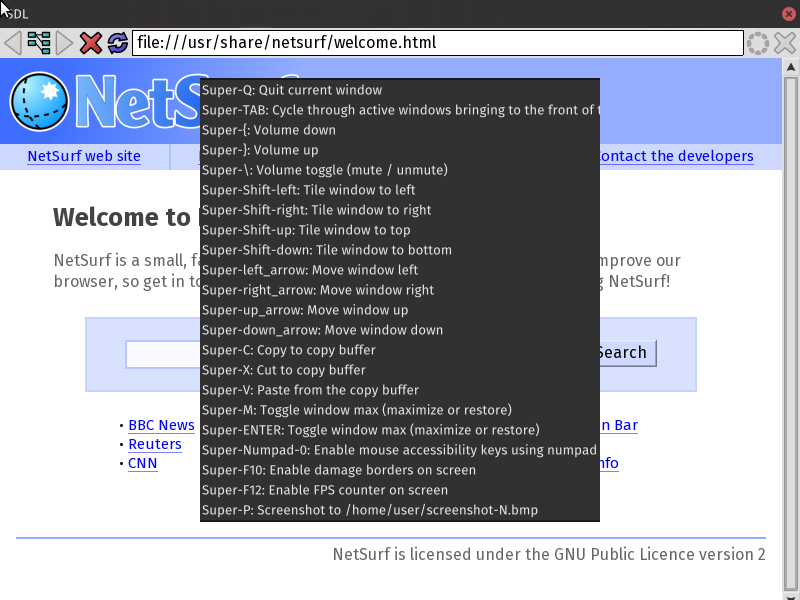
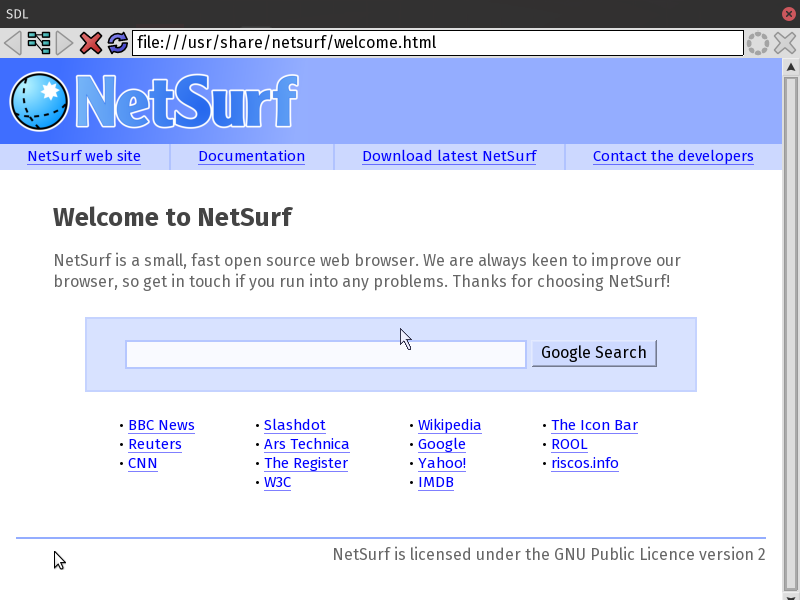
feat(netsurf): local about:welcome homepage + verify click-to-launch (U-105)
Verified the real desktop path: clicking the Netsurf icon on the launcher bar
opens the browser (not just a shell launch) — no crash, window renders. But the
Redox netsurf config overrode netsurf's own about:welcome default with
https://www.redox-os.org/, and Redox networking (netstack/DNS/TLS + the
curl/openssl fetch path) is not functional on the aarch64/QEMU loop yet, so a
click-launch landed on a blank white page.

Fix: a sed in the recipe restores the local about:welcome default (netsurf's
Makefile.config override -> about:welcome), so clicking Netsurf renders the
welcome page immediately.

Verified (boot + bar click-launch + screendump): the icon opens netsurf to the
local welcome page in full — nav links, headings, a search box, the link grid
(assets/screenshots/eos-netsurf-welcome.png, now a clean shot, no overlay).
Web browsing over the network is tracked separately as R-D10.

diff --git a/ROADMAP.md b/ROADMAP.md
@@ -245,6 +245,7 @@ Recommended order, realistic per-item scope and QEMU verification plans live in
 - ⏳ `R-D07` **Volume mixer UI; verify cosmic-edit boot** — Add an audio-mixer/volume UI and explicitly boot-verify cosmic-edit (only cosmic-files/term were verified after the R-402b loader fix). `[P2·M·Mac/QEMU]` · needs `R-D01`
 - ⏳ `R-D08` **Verify launcher .desktop membership** — The greeter→installer path is untested: confirm installer-gui, cosmic-edit and CLI tools actually appear via freedesktop .desktop entries present in the image (not in the exported source tree). `[P1·S·Mac/QEMU]`
 - ⏳ `R-D09` **netsurf: resizable window** — netsurf's window is fixed-size (R-D06 dropped `SDL_RESIZABLE` to dodge a use-after-munmap of the window buffer). Proper resize needs libnsfb's SDL surface to re-fetch `nsfb->ptr` after orbclient remaps on `EVENT_RESIZE` (and post an `SDL_VIDEORESIZE`); the right home is the SDL orbital driver / libnsfb, not the recipe. See `docs/design-netsurf-pie.md`. `[P3·M·Mac/QEMU]`
+- ⏳ `R-D10` **netsurf: web browsing over the network** — netsurf launches and renders local pages (R-D06 ✅), and click-to-launch from the bar is verified (U-105), but loading a real URL (`https://www.redox-os.org/`) shows a blank page — Redox networking (netstack/DNS/TLS, and netsurf's curl/openssl fetch path) is not functional on the aarch64/QEMU loop yet. Default homepage is `about:welcome` (local) until this works. Scope: bring up the net stack under QEMU user-net, confirm DNS + TLS, then a fetch renders. `[P2·L·Mac/QEMU]`
 
 
 ### `R-6xx` — Installer → daily-driver + OOBE / first-boot

diff --git a/CHANGELOG.md b/CHANGELOG.md
@@ -7,6 +7,17 @@ History before `U-071` predates this file and lives in the git log (`git log`).
 ## [Unreleased]
 
 ### Added & Changed
+- `[U-105]` **netsurf: local default homepage + click-to-launch verified** — meta-repo only
+  (`recipes/web/netsurf/recipe.toml`, `docs/design-netsurf-pie.md`). Verified the **real desktop
+  path**: clicking the Netsurf icon on the launcher bar opens the browser (not just a shell launch) —
+  no crash, window renders. But the Redox netsurf config **overrode netsurf's own `about:welcome`
+  default with `https://www.redox-os.org/`**, and Redox networking (DNS/TLS/netstack) is not
+  functional here yet, so a click-launch landed on a **blank white page**. A `sed` in the recipe
+  restores the local `about:welcome` default (netsurf's `Makefile.config` override → `about:welcome`),
+  so clicking Netsurf now renders the welcome page immediately. **Verified (boot + click-launch +
+  screendump):** the bar icon opens netsurf to the local welcome page in full — nav links, headings,
+  a search box, the link grid (`assets/screenshots/eos-netsurf-welcome.png`, now a clean shot).
+  Web browsing over the network is a separate, larger effort tracked as `R-D10`.
 - `[U-104]` **netsurf: fix the first-render crash — the browser renders now (`R-D06` ✅)** — meta-repo
   only (`recipes/web/netsurf/recipe.toml`, `docs/design-netsurf-pie.md`). After U-103 the PIE netsurf
   loaded and opened a window, but the body stayed black and it crashed on the first content render — a

diff --git a/docs/design-netsurf-pie.md b/docs/design-netsurf-pie.md
@@ -116,3 +116,15 @@ an `UNHANDLED EXCEPTION` for `netsurf-fb`.
 resize support needs libnsfb to re-fetch `nsfb->ptr` (and post an
 `SDL_VIDEORESIZE`) *after* orbclient remaps — the correct home for that is the
 SDL orbital driver / libnsfb, not this recipe. Until then, resizable is off.
+
+## Launch & homepage
+
+Verified the real desktop path (not just a shell launch): clicking the **Netsurf
+icon on the launcher bar** opens the browser, no crash. The Redox netsurf config
+overrode netsurf's own `about:welcome` default with `https://www.redox-os.org/`,
+but Redox networking (netstack/DNS/TLS + the curl/openssl fetch path) is not
+functional on the aarch64/QEMU loop yet — a click-launch of that homepage showed
+a blank page. A `sed` in the recipe restores the local `about:welcome` default
+(netsurf's `Makefile.config` override), so clicking Netsurf renders the welcome
+page immediately. Flip the homepage back to a web URL once networking works
+(`R-D10`).
